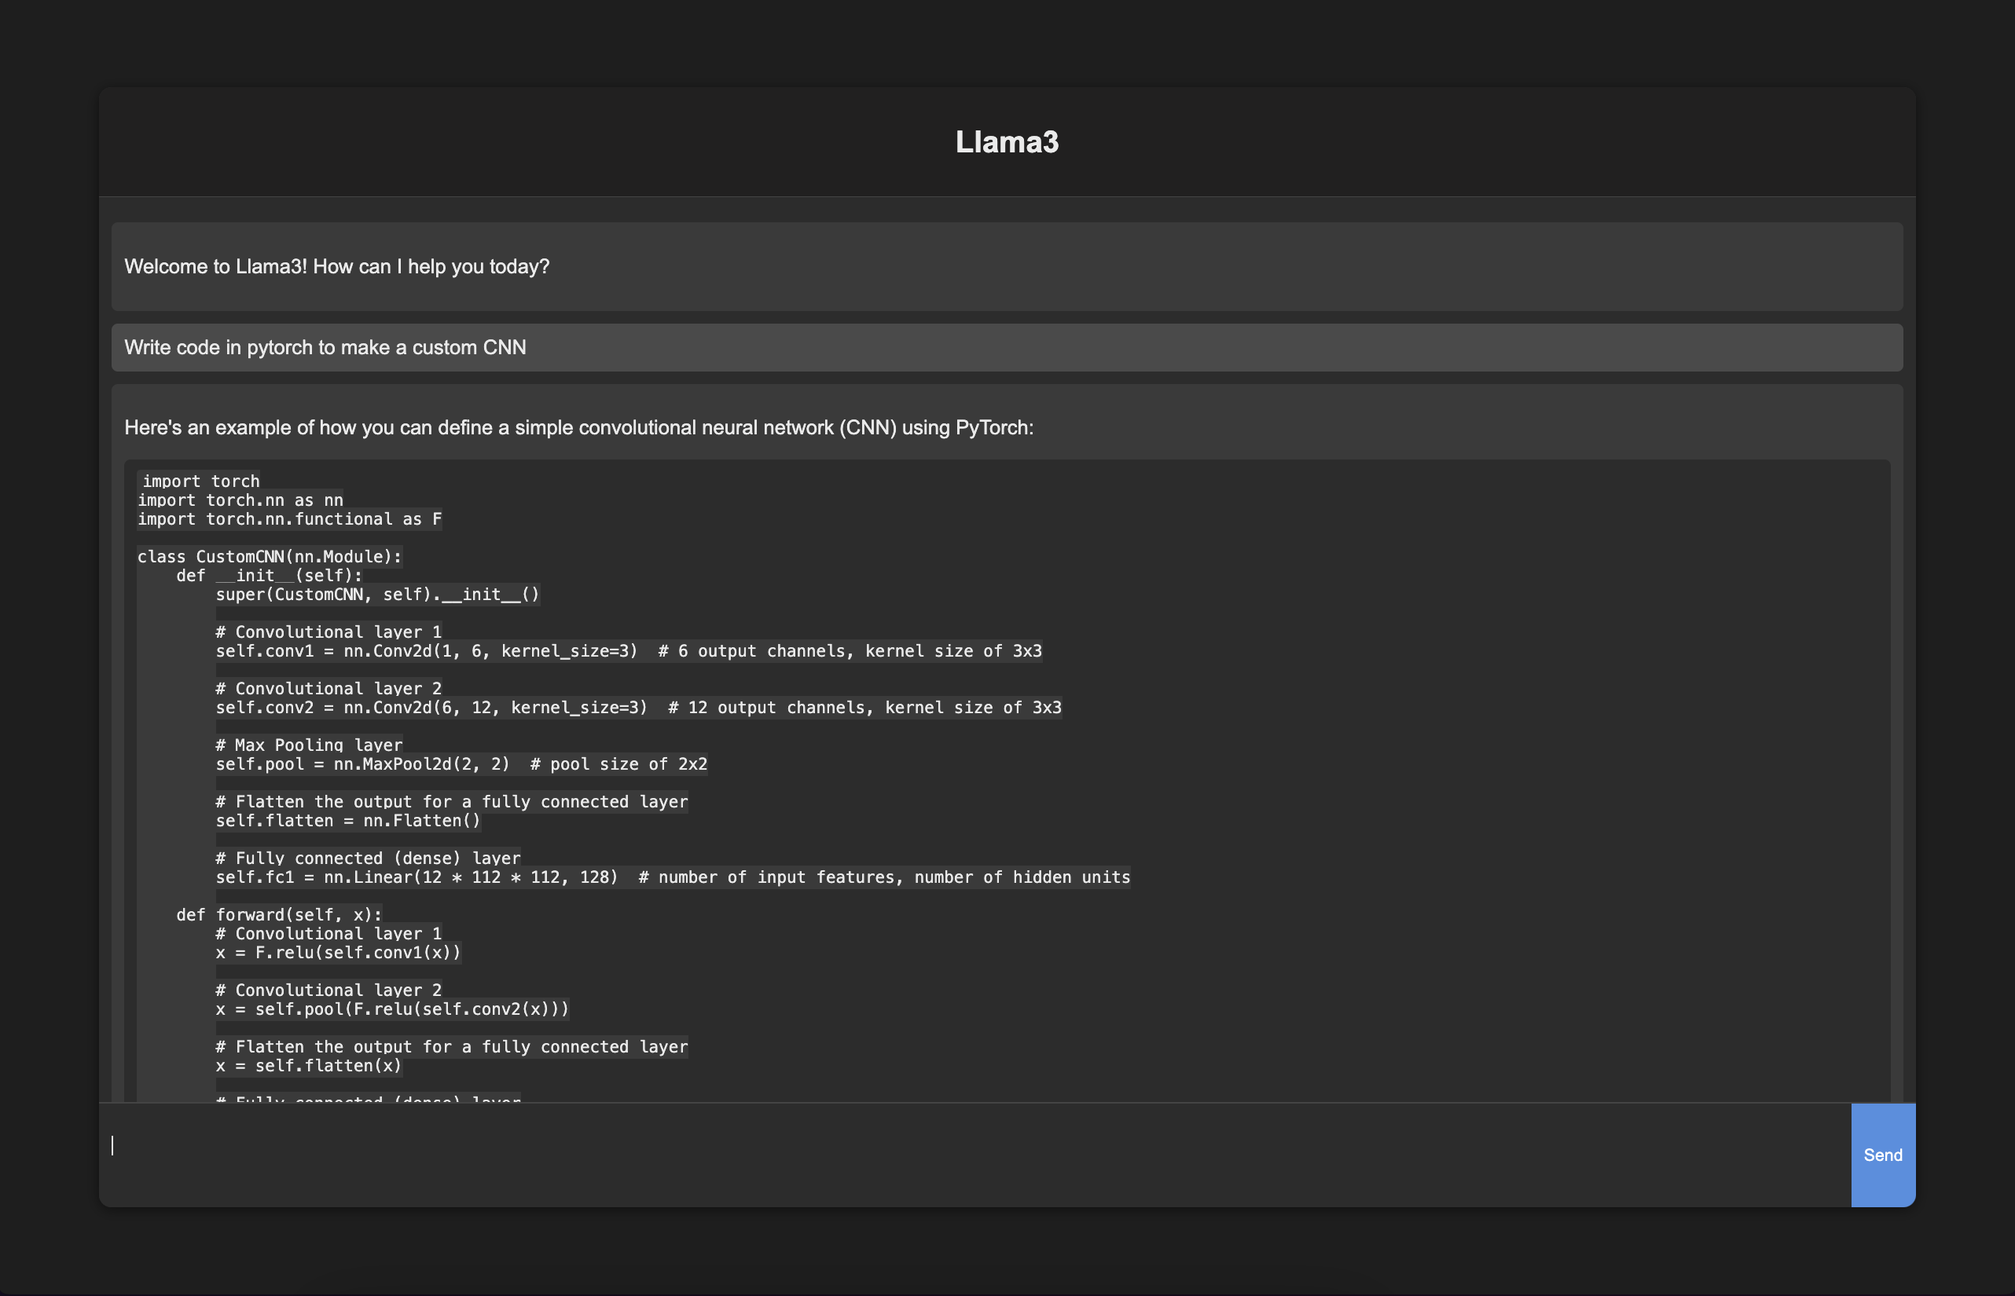
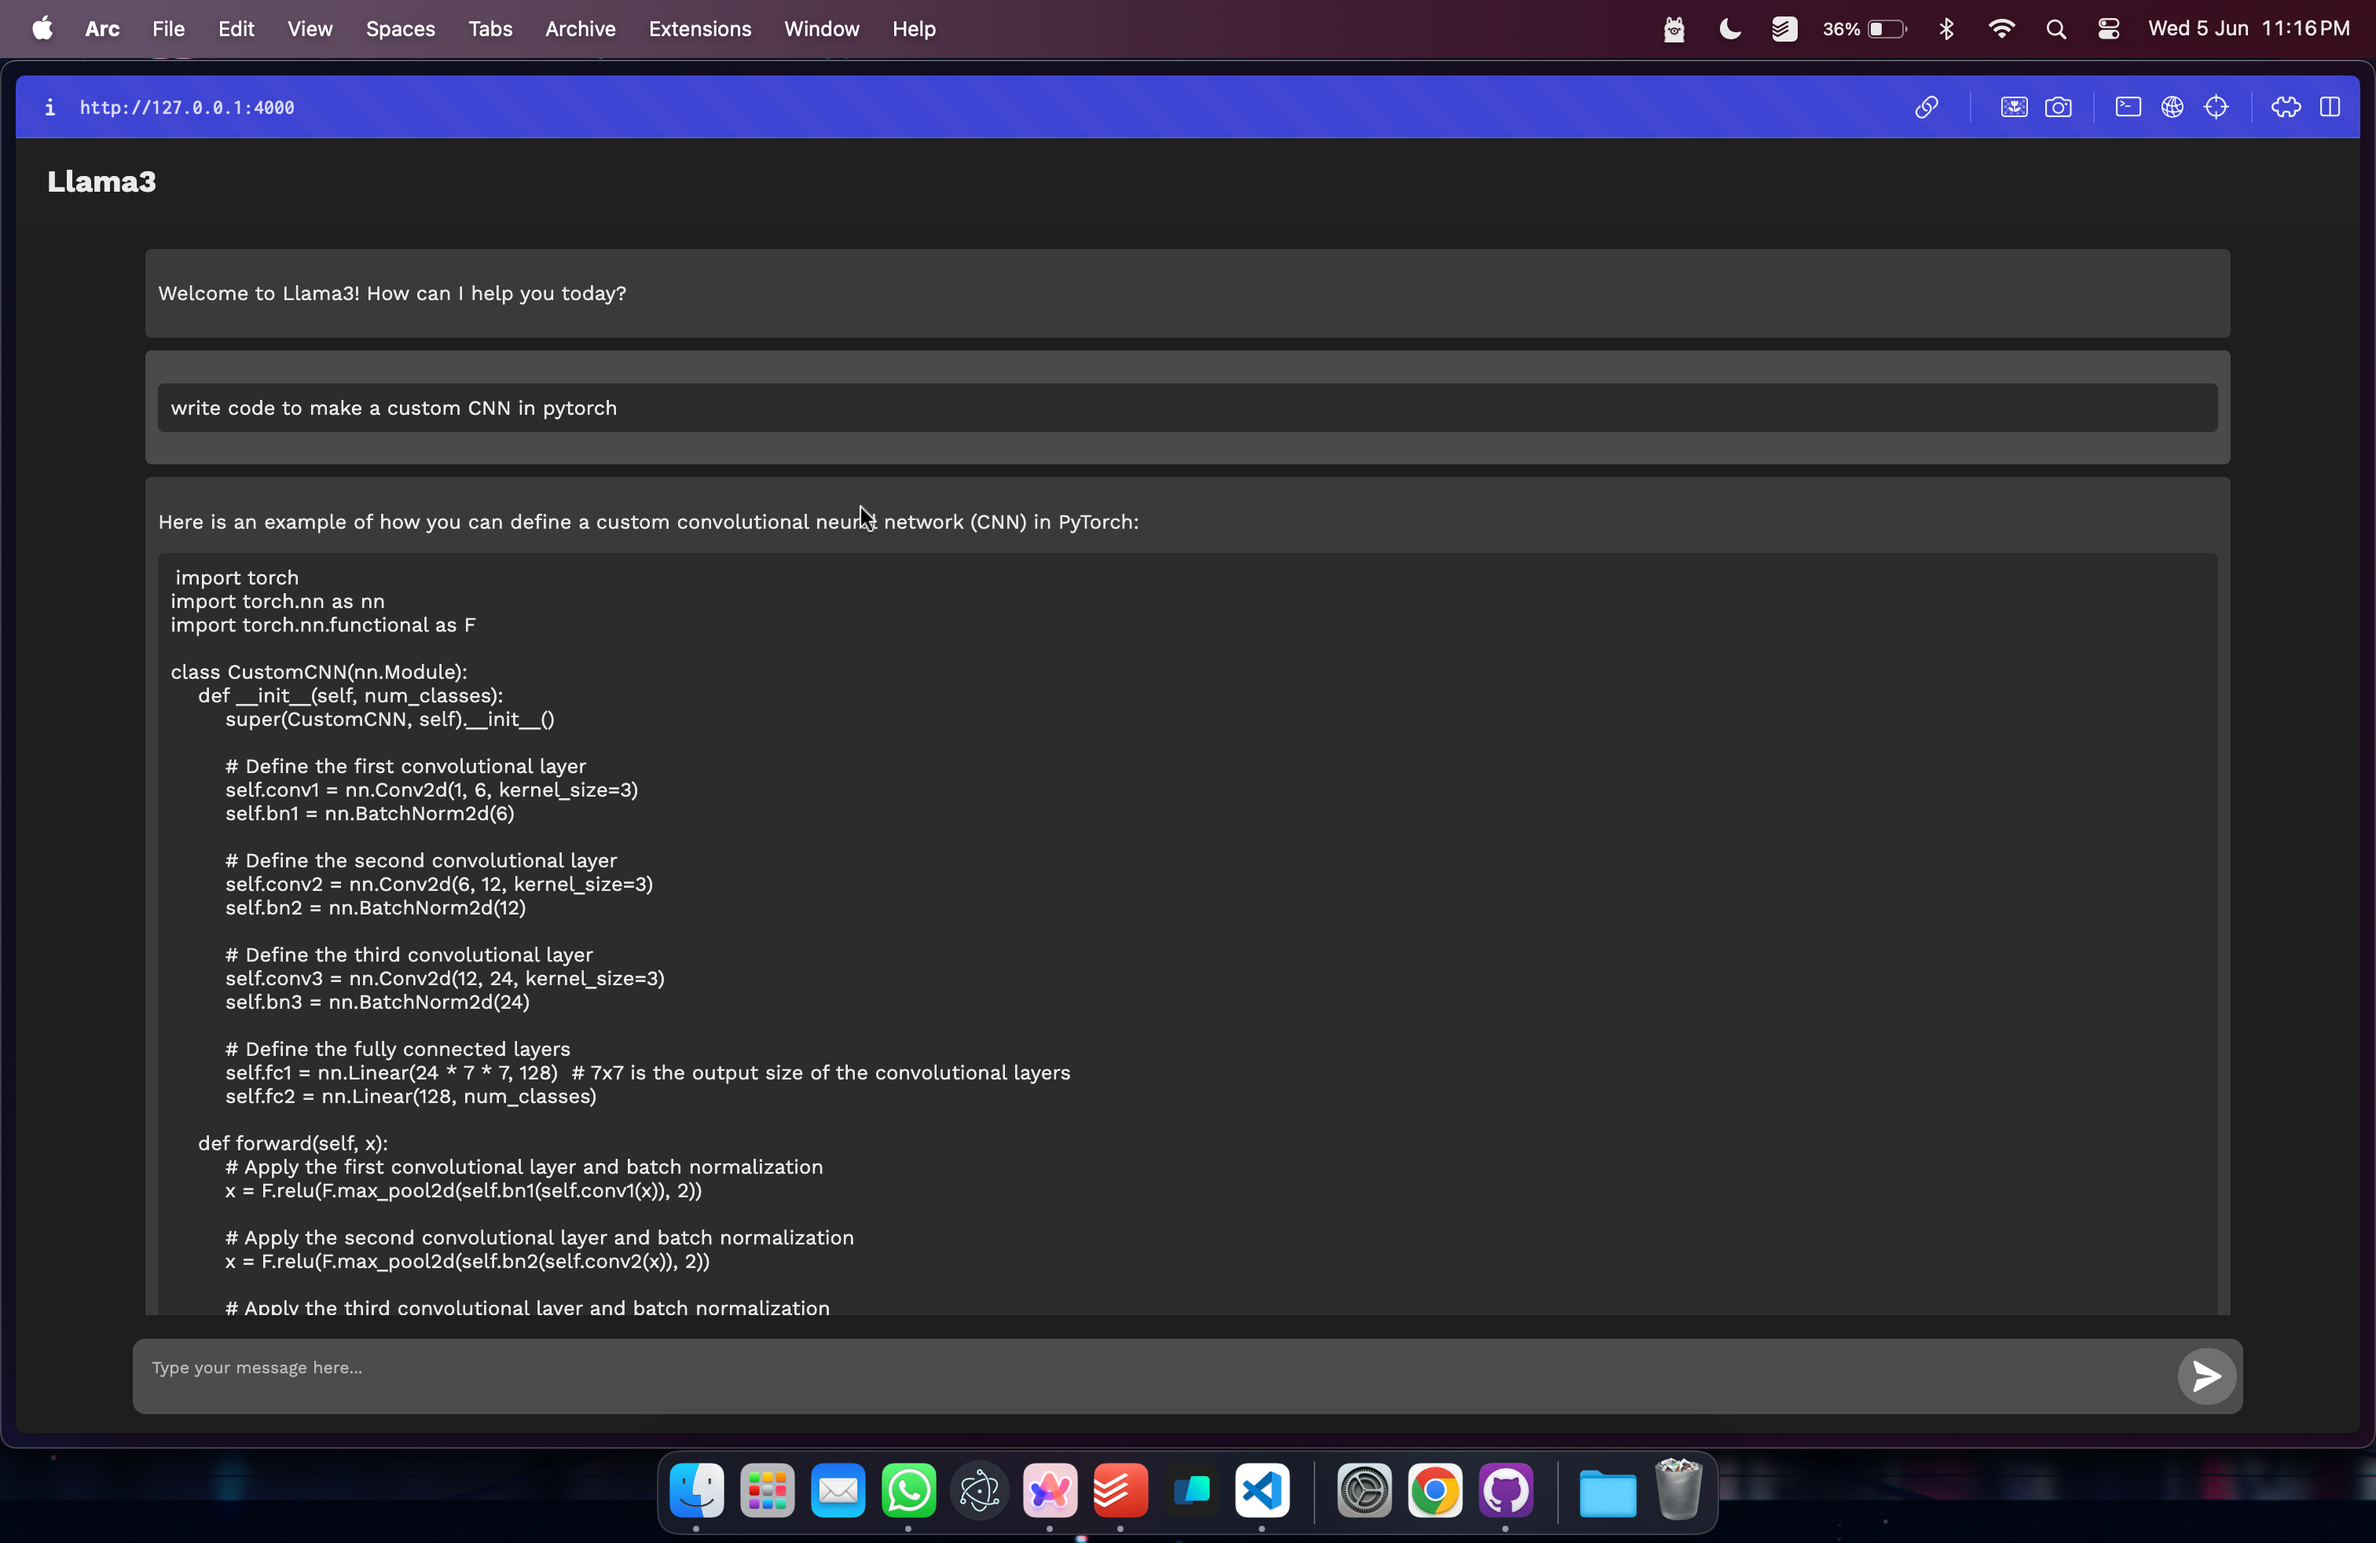
ui update

diff --git a/templates/home.html b/templates/home.html
@@ -6,40 +6,43 @@
     <title>Llama3</title>
     <style>
         body {
-            font-family: Arial, sans-serif;
+            /* font-family: Arial, sans-serif; */
             background-color: #1e1e1e;
             margin: 0;
             display: flex;
-            justify-content: center;
+            justify-content: space-between;
+            flex-direction: column;
             align-items: center;
             height: 100vh;
             color: #eaeaea;
         }
 
+        body *{
+            font-family: "Work Sans", sans-serif;
+        }
+
         .chat-container {
             width: 90%;
-            background-color: #2c2c2c;
             border-radius: 10px;
-            box-shadow: 0 2px 10px rgba(0, 0, 0, 0.5);
             display: flex;
             flex-direction: column;
             overflow: hidden;
+            margin-bottom: 15px;
         }
 
         .chat-header {
             background-color: #212020;
-            padding: 10px;
             color: #eaeaea;
             text-align: center;
-            border-bottom: 1px solid #444;
+            width: 100%;
+            text-align: start;
+            padding-left: 50px;
         }
 
         .chat-messages {
             flex: 1;
             padding: 10px;
-            border-bottom: 1px solid #444;
             overflow-y: scroll;
-            max-height: 700px;
         }
 
         .message {
@@ -63,31 +66,43 @@
 
         .chat-input {
             display: flex;
-            border-top: 1px solid #444;
+            border-radius: 10px;
+            height: 50px;
+            background-color: #4c4c4c;
+            padding: 5px;
         }
 
         #user-input {
             flex: 1;
             padding: 10px;
-            background-color: #2c2c2c;
+            background-color: #4c4c4c;
             color: #eaeaea;
             border: none;
-            border-radius: 0;
+            border-radius: 10px 0 0 10px;
         }
         #user-input:focus {
             outline: none;
         }
 
         #send-btn {
-            padding: 10px;
-            background-color: #4a90e2;
+            background-color: #707070;
             color: white;
             border: none;
             cursor: pointer;
+            border-radius: 0 10px 10px 0;
+            font-size: 20px;
+            height: 45px;
+            display: flex;
+            align-items: center;
+            justify-content: center;
+            padding: 0 10px;
+            margin: auto;
+            border-radius: 100px;
+            /* padding: 20px; */
         }
 
         #send-btn:hover {
-            background-color: #357ab8;
+            background-color: #2c2c2c;
         }
 
         pre {
@@ -113,88 +128,128 @@
             resize: none;
             max-height: 200px;
         }
+
+        a{
+            color: #84bbf9;
+        }
+
+        textarea{
+            border-radius: 10px;
+        }
+        code{
+            background-color: transparent;
+        }
+
     </style>
     <script src="https://cdn.jsdelivr.net/npm/marked/marked.min.js"></script>
+    <script src="https://cdn.socket.io/4.0.0/socket.io.min.js"></script>
 </head>
+
+<link rel="preconnect" href="https://fonts.googleapis.com">
+<link rel="preconnect" href="https://fonts.gstatic.com" crossorigin>
+<link href="https://fonts.googleapis.com/css2?family=Work+Sans:ital,wght@0,100..900;1,100..900&display=swap" rel="stylesheet">
+
 <body>
+    <div class="chat-header">
+        <h2>Llama3</h2>
+    </div>
     <div class="chat-container">
-        <div class="chat-header">
-            <h2>Llama3</h2>
-        </div>
         <div class="chat-messages" id="chat-messages">
             <div class="message bot-message">
                 <p>Welcome to Llama3! How can I help you today?</p>
             </div>
         </div>
-        <div class="chat-input">
-            <textarea id="user-input" class="non-resizable" rows="4" placeholder="Type your message here..."></textarea>
-            <button id="send-btn">Send</button>
+        <br>
+        <div class="chat-input" id="chat-input">
+            <textarea id="user-input" class="non-resizable" rows="10" placeholder="Type your message here..."></textarea>
+            <button id="send-btn"><img height="30px" width="27px" src = "../static/images/send.png"/></button>
         </div>
     </div>
     <script>
-        document.getElementById('send-btn').addEventListener('click', function() {
-            sendMessage();
-        });
+        var buffer = ''
+        var END_TOKEN = "<END><END><END>"
 
-        document.getElementById('user-input').addEventListener('keypress', function(e) {
-            if (e.key === 'Enter') {
-                sendMessage();
-            }
-        });
-
-        document.getElementById('user-input').addEventListener('keydown', function(e) {
-            if (e.key === 'Enter' && e.shiftKey) {
-                e.preventDefault();
-
-                let selectionStart = this.selectionStart;
-                let selectionEnd = this.selectionEnd;
-
-                this.value = this.value.substring(0, selectionStart)
-                                + '\n'
-                                + this.value.substring(selectionEnd);
-
-                this.selectionStart = selectionStart + 1;
-                this.selectionEnd = selectionEnd + 1;
-            } else if (e.key === 'Enter') {
-                sendMessage();
-            }
-        });
-
-        function sendMessage() {
-            const userInput = document.getElementById('user-input');
-            const messageText = userInput.value.trim();
-            userInput.value = "";
-            
-            if (messageText === '') {
-                return;
-            }
-            
-            const userMessage = document.createElement('div');
-            userMessage.className = 'message user-message';
-            userMessage.textContent = messageText;
-            
-            document.getElementById('chat-messages').appendChild(userMessage);
-
-            fetch('http://127.0.0.1:5000/ollama', {
-                method: 'POST',
-                headers: {
-                    'Content-Type': 'application/json'
-                },
-                body: JSON.stringify({ message: messageText })
-            })
-            .then(response => response.json())
-            .then(data => {
-                const botMessage = document.createElement('div');
-                botMessage.className = 'message bot-message';
-                botMessage.innerHTML = marked.parse(data["message"]["content"]);
-        
-                document.getElementById('chat-messages').appendChild(botMessage);
-                botMessage.scrollIntoView();
-            })
-            .catch(error => {
-                console.error('Error:', error);
-            });
+        function getLines() {
+            var textarea = document.getElementById('user-input');
+            var text = textarea.value;
+            return text.split('\n').length;
         }
+
+        document.addEventListener('DOMContentLoaded', () => {
+            const socket = io('http://127.0.0.1:4000');
+
+            // interval that checks the number of lines in the textarea and adjusts the height of chat-input to the extent of 150px
+            setInterval(() => {
+                var lines = getLines()+1;
+                var chatInput = document.getElementById('chat-input');
+                var height = 0;
+                if (lines > 1) {
+                    height = 20 * lines;
+                }
+                if (height > 200)height = 200;
+                if(height<50) height = 50
+                chatInput.style.height = height + 'px';
+            }, 100);
+            
+            document.getElementById('send-btn').addEventListener('click', sendMessage);
+            document.getElementById('user-input').addEventListener('keypress', (e) => {
+                if (e.key === 'Enter') {
+                    sendMessage();
+                }
+            });
+
+            document.getElementById('user-input').addEventListener('keydown', (e) => {
+                if (e.key === 'Enter' && e.shiftKey) {
+                    e.preventDefault();
+                    let textarea = e.target;
+                    let selectionStart = textarea.selectionStart;
+                    let selectionEnd = textarea.selectionEnd;
+                    textarea.value = textarea.value.substring(0, selectionStart) + '\n' + textarea.value.substring(selectionEnd);
+                    textarea.selectionStart = selectionStart + 1;
+                    textarea.selectionEnd = selectionEnd + 1;
+                } else if (e.key === 'Enter') {
+                    sendMessage();
+                }
+            });
+
+            socket.on('bot_message', (data) => {
+                var messagesDiv = document.getElementById('chat-messages').children
+                var botMessage = null
+                if(messagesDiv.length %2 == 0){
+                    botMessage = document.createElement('div');
+                    botMessage.className = 'message bot-message';
+                    document.getElementById('chat-messages').appendChild(botMessage);
+                    botMessage.scrollIntoView();
+                    document.getElementById('send-btn').disabled = true;
+                }
+                else botMessage = messagesDiv[messagesDiv.length-1]
+                
+                botMessage.innerHTML = marked.parse(buffer);
+                if(data.message == END_TOKEN){
+                    buffer = ''
+                    botMessage.scrollIntoView();
+                    document.getElementById('send-btn').disabled = false;
+                    return
+                }
+                buffer += data.message         
+                
+            });
+
+            function sendMessage() {
+                const userInput = document.getElementById('user-input');
+                const messageText = userInput.value.trim();
+                userInput.value = "";
+
+                if (messageText === '') return;
+
+                const userMessage = document.createElement('div');
+                userMessage.className = 'message user-message';
+                userMessage.innerHTML = "<pre>"+messageText+"</pre>";
+                document.getElementById('chat-messages').appendChild(userMessage);
+
+                socket.emit('user_message', { message: messageText });
+            }
+        });
     </script>
 </body>
 </html>

diff --git a/app.py b/app.py
@@ -1,11 +1,13 @@
 import ollama
-from flask import Flask, request, jsonify, render_template
+from flask import Flask, render_template
 from flask_cors import CORS
+from flask_socketio import SocketIO, emit
 import webbrowser
 import threading
 
 app = Flask(__name__)
 CORS(app)
+socketio = SocketIO(app, cors_allowed_origins="*")
 
 history = []
 
@@ -13,21 +15,24 @@ history = []
 def home():
     return render_template('home.html')
 
-@app.route('/ollama', methods=['POST'])
-def ollama_predict():
-    input_data = request.get_json()
+@socketio.on('user_message')
+def handle_user_message(data):
+    input_message = data['message']
+    history.append({'role': 'user', 'content': input_message})
 
-    history.append({'role': 'user', 'content': input_data['message']})
+    def stream_response():
+        stream = ollama.chat(model='llama3', messages=history, stream=True)
+        for chunk in stream:
+            response_chunk = chunk['message']['content']
+            emit('bot_message', {'message': response_chunk})
 
-    response = ollama.chat(model='llama3', messages=history)
-    print(response['message']['content'])
-
-    history.append({'role': 'assistant', 'content': response['message']['content']})
-    return jsonify(response)
+        emit('bot_message', {'message': '<END><END><END>'})
+    
+    stream_response()
 
 def open_browser():
-    webbrowser.open('http://127.0.0.1:5000')
+    webbrowser.open('http://127.0.0.1:4000')
 
 if __name__ == '__main__':
-    threading.Timer(1.5, open_browser).start()
-    app.run()
+    # threading.Timer(1.5, open_browser).start()
+    socketio.run(app, host="0.0.0.0", port=4000, debug=True)
